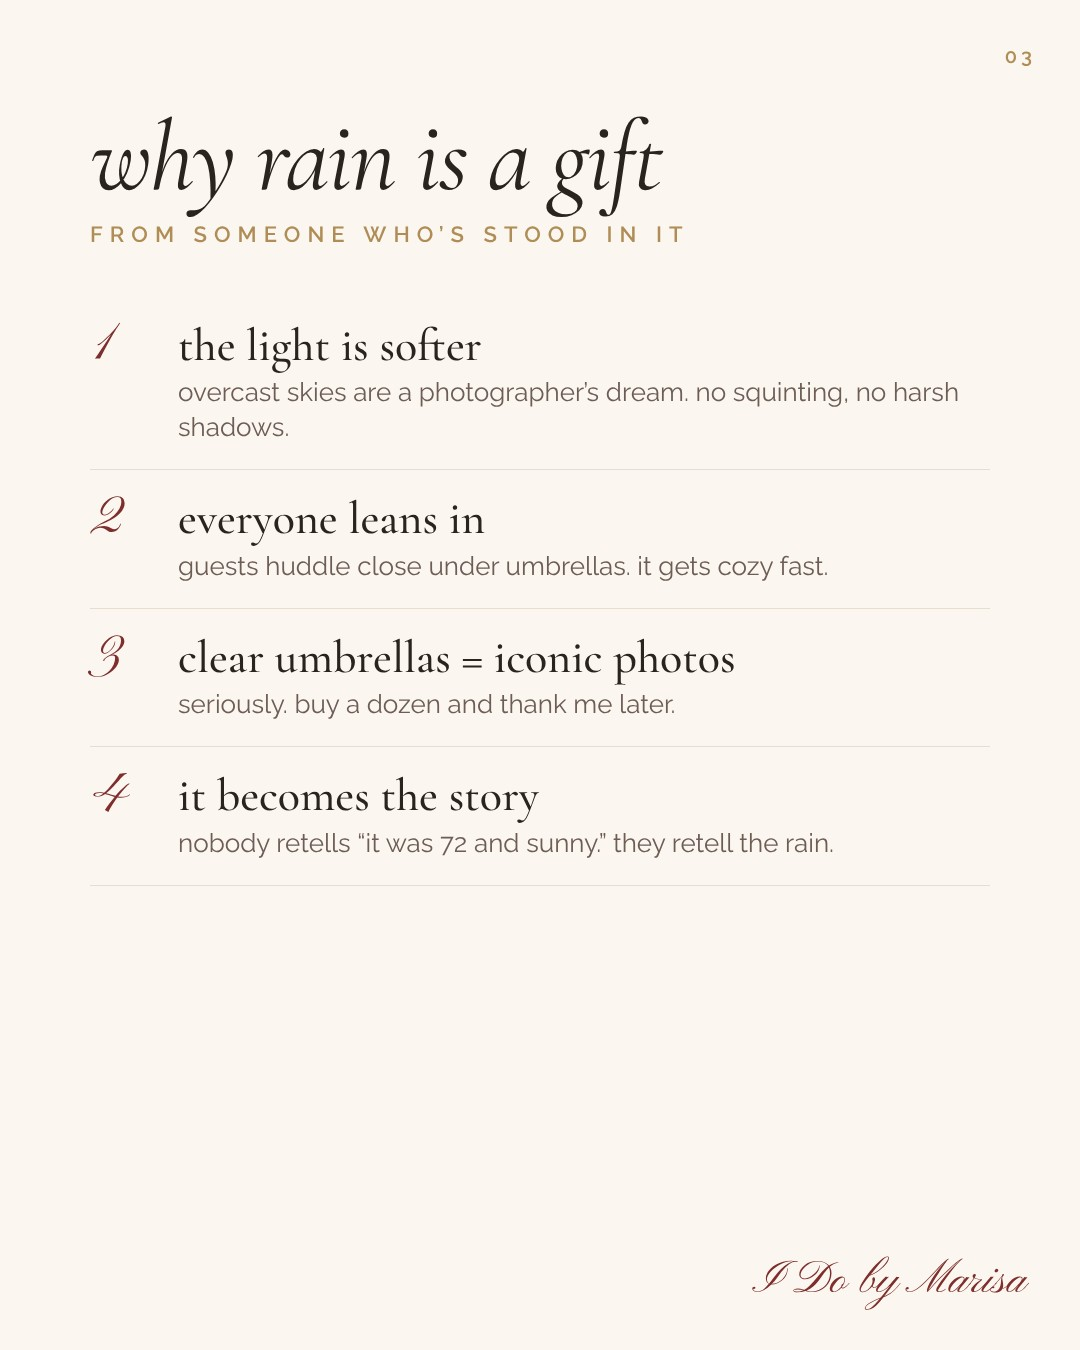
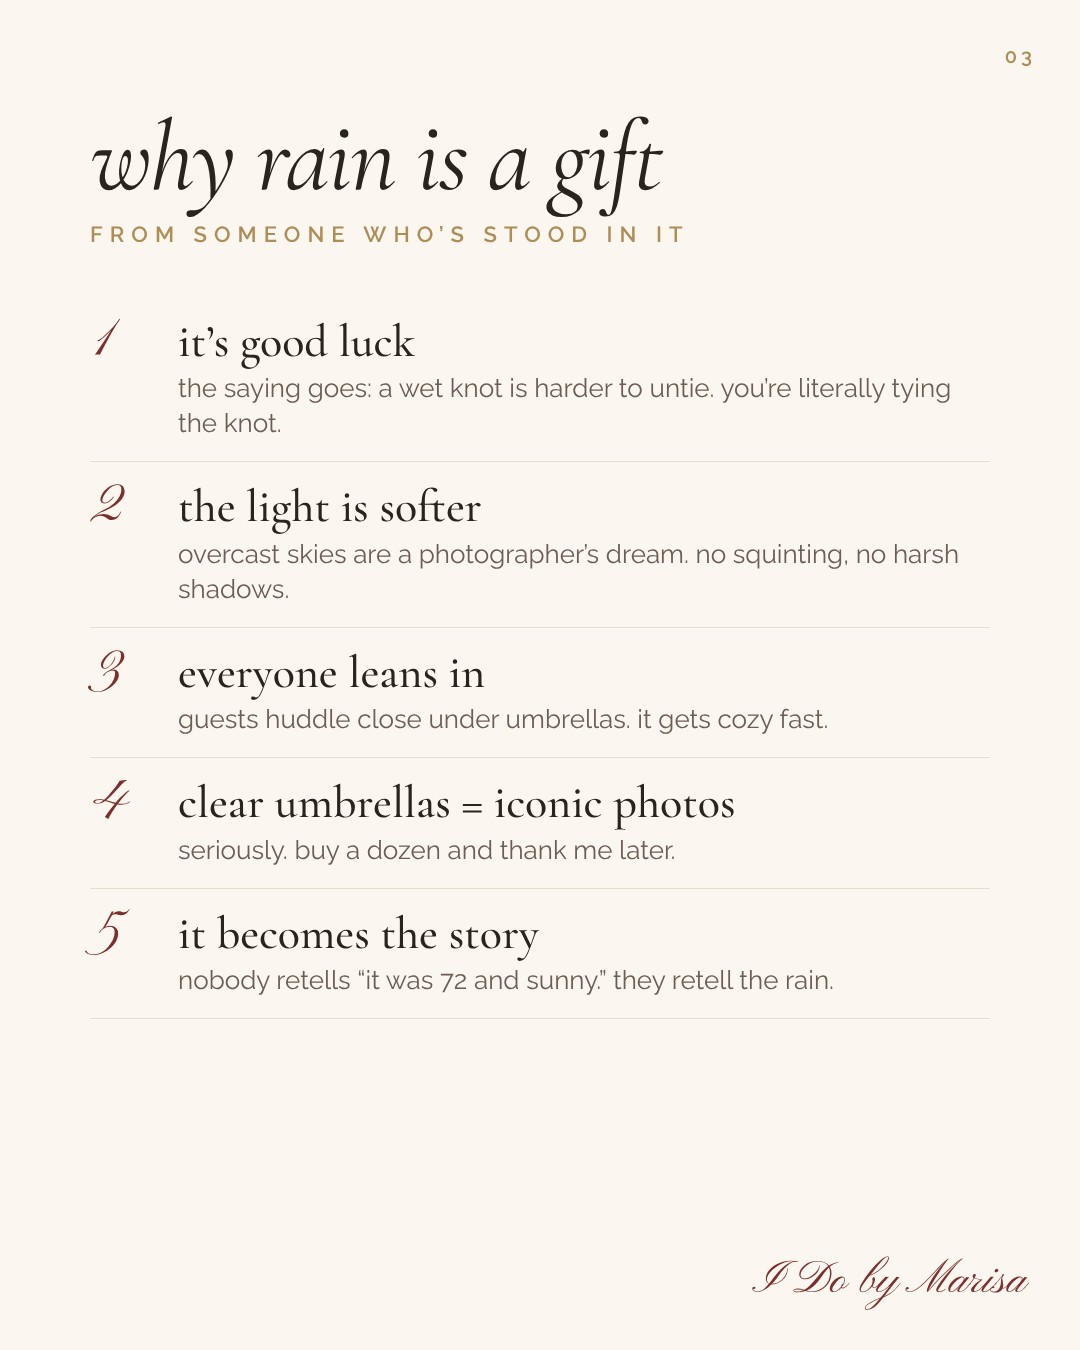
I Do rain post: add wet-knot good luck line
Claude-Session: https://claude.ai/code/session_01CeoovJ21APbX2P2SCMoWFW

diff --git a/ido_cool/rain/rain.html b/ido_cool/rain/rain.html
@@ -16,9 +16,9 @@
 .ls{padding:110px 90px}
 .ls .t{font:italic 400 100px/.95 'Cormorant Garamond';letter-spacing:-.02em;margin-bottom:16px}
 .ls .k{color:var(--gold);margin-bottom:50px}
-.row{display:flex;gap:28px;padding:24px 0;border-bottom:1.5px solid #e7ddd0}
+.row{display:flex;gap:28px;padding:20px 0;border-bottom:1.5px solid #e7ddd0}
 .row .d{flex:none;font:400 52px/1 'Pinyon Script';color:var(--wine);width:60px}
 .row b{display:block;font:500 46px/1.05 'Cormorant Garamond'}
 .row i{display:block;font:400 26px/1.35 Raleway;color:#6d5d55;margin-top:6px;font-style:normal}
 .bl{background:var(--blush)}
-</style></head><body><section class="s dk c1" id="rain1"><div class="drops"></div><p class="cap k">a hot take from your officiant</p><h1>rain on your wedding day?</h1><p class="g">good.</p><p class="sub">swipe. i’ll explain.</p><div class="mark">I Do by Marisa</div></section><section class="s c2" id="rain2"><p class="n">02</p><div class="ph"><img src="me.jpg"></div><p class="q">i love rain. people call it gloomy.<br>i think it’s beautiful and calming.</p><p class="cap who">marisa, on a wet boardwalk</p><div class="mark">I Do by Marisa</div></section><section class="s ls" id="rain3"><p class="n">03</p><p class="t">why rain is a gift</p><p class="cap k">from someone who’s stood in it</p><div class="row"><div class="d">1</div><div><b>the light is softer</b><i>overcast skies are a photographer’s dream. no squinting, no harsh shadows.</i></div></div><div class="row"><div class="d">2</div><div><b>everyone leans in</b><i>guests huddle close under umbrellas. it gets cozy fast.</i></div></div><div class="row"><div class="d">3</div><div><b>clear umbrellas = iconic photos</b><i>seriously. buy a dozen and thank me later.</i></div></div><div class="row"><div class="d">4</div><div><b>it becomes the story</b><i>nobody retells “it was 72 and sunny.” they retell the rain.</i></div></div><div class="mark">I Do by Marisa</div></section><section class="s ls bl" id="rain4"><p class="n">04</p><p class="t">the calm-girl rain plan</p><p class="cap k">so the forecast can’t touch you</p><div class="row"><div class="d">✓</div><div><b>ask your venue for the rain plan now</b><i>not the week of. now.</i></div></div><div class="row"><div class="d">✓</div><div><b>pick your covered spot like it’s plan A</b><i>because it might be.</i></div></div><div class="row"><div class="d">✓</div><div><b>i keep the script dry</b><i>it lives in my portfolio. your vows are safe with me.</i></div></div><p style="margin-top:60px;font:italic 400 46px/1.2 'Cormorant Garamond'">rain or shine, your story gets told.</p><div class="mark">I Do by Marisa</div></section></body></html>
+</style></head><body><section class="s dk c1" id="rain1"><div class="drops"></div><p class="cap k">a hot take from your officiant</p><h1>rain on your wedding day?</h1><p class="g">good.</p><p class="sub">swipe. i’ll explain.</p><div class="mark">I Do by Marisa</div></section><section class="s c2" id="rain2"><p class="n">02</p><div class="ph"><img src="me.jpg"></div><p class="q">i love rain. people call it gloomy.<br>i think it’s beautiful and calming.</p><p class="cap who">marisa, on a wet boardwalk</p><div class="mark">I Do by Marisa</div></section><section class="s ls" id="rain3"><p class="n">03</p><p class="t">why rain is a gift</p><p class="cap k">from someone who’s stood in it</p><div class="row"><div class="d">1</div><div><b>it’s good luck</b><i>the saying goes: a wet knot is harder to untie. you’re literally tying the knot.</i></div></div><div class="row"><div class="d">2</div><div><b>the light is softer</b><i>overcast skies are a photographer’s dream. no squinting, no harsh shadows.</i></div></div><div class="row"><div class="d">3</div><div><b>everyone leans in</b><i>guests huddle close under umbrellas. it gets cozy fast.</i></div></div><div class="row"><div class="d">4</div><div><b>clear umbrellas = iconic photos</b><i>seriously. buy a dozen and thank me later.</i></div></div><div class="row"><div class="d">5</div><div><b>it becomes the story</b><i>nobody retells “it was 72 and sunny.” they retell the rain.</i></div></div><div class="mark">I Do by Marisa</div></section><section class="s ls bl" id="rain4"><p class="n">04</p><p class="t">the calm-girl rain plan</p><p class="cap k">so the forecast can’t touch you</p><div class="row"><div class="d">✓</div><div><b>ask your venue for the rain plan now</b><i>not the week of. now.</i></div></div><div class="row"><div class="d">✓</div><div><b>pick your covered spot like it’s plan A</b><i>because it might be.</i></div></div><div class="row"><div class="d">✓</div><div><b>i keep the script dry</b><i>it lives in my portfolio. your vows are safe with me.</i></div></div><p style="margin-top:60px;font:italic 400 46px/1.2 'Cormorant Garamond'">rain or shine, your story gets told.</p><div class="mark">I Do by Marisa</div></section></body></html>

diff --git a/ido_cool/rain/build.py b/ido_cool/rain/build.py
@@ -18,7 +18,7 @@ CSS="""*{box-sizing:border-box}body{margin:0;background:#777}p{margin:0}
 .ls{padding:110px 90px}
 .ls .t{font:italic 400 100px/.95 'Cormorant Garamond';letter-spacing:-.02em;margin-bottom:16px}
 .ls .k{color:var(--gold);margin-bottom:50px}
-.row{display:flex;gap:28px;padding:24px 0;border-bottom:1.5px solid #e7ddd0}
+.row{display:flex;gap:28px;padding:20px 0;border-bottom:1.5px solid #e7ddd0}
 .row .d{flex:none;font:400 52px/1 'Pinyon Script';color:var(--wine);width:60px}
 .row b{display:block;font:500 46px/1.05 'Cormorant Garamond'}
 .row i{display:block;font:400 26px/1.35 Raleway;color:#6d5d55;margin-top:6px;font-style:normal}
@@ -28,7 +28,8 @@ M='<div class="mark">I Do by Marisa</div>'
 S=[]
 S.append(f'<section class="s dk c1" id="rain1"><div class="drops"></div><p class="cap k">a hot take from your officiant</p><h1>rain on your wedding day?</h1><p class="g">good.</p><p class="sub">swipe. i’ll explain.</p>{M}</section>')
 S.append(f'<section class="s c2" id="rain2"><p class="n">02</p><div class="ph"><img src="me.jpg"></div><p class="q">i love rain. people call it gloomy.<br>i think it’s beautiful and calming.</p><p class="cap who">marisa, on a wet boardwalk</p>{M}</section>')
-R=[('the light is softer','overcast skies are a photographer’s dream. no squinting, no harsh shadows.'),
+R=[('it’s good luck','the saying goes: a wet knot is harder to untie. you’re literally tying the knot.'),
+   ('the light is softer','overcast skies are a photographer’s dream. no squinting, no harsh shadows.'),
    ('everyone leans in','guests huddle close under umbrellas. it gets cozy fast.'),
    ('clear umbrellas = iconic photos','seriously. buy a dozen and thank me later.'),
    ('it becomes the story','nobody retells “it was 72 and sunny.” they retell the rain.')]
